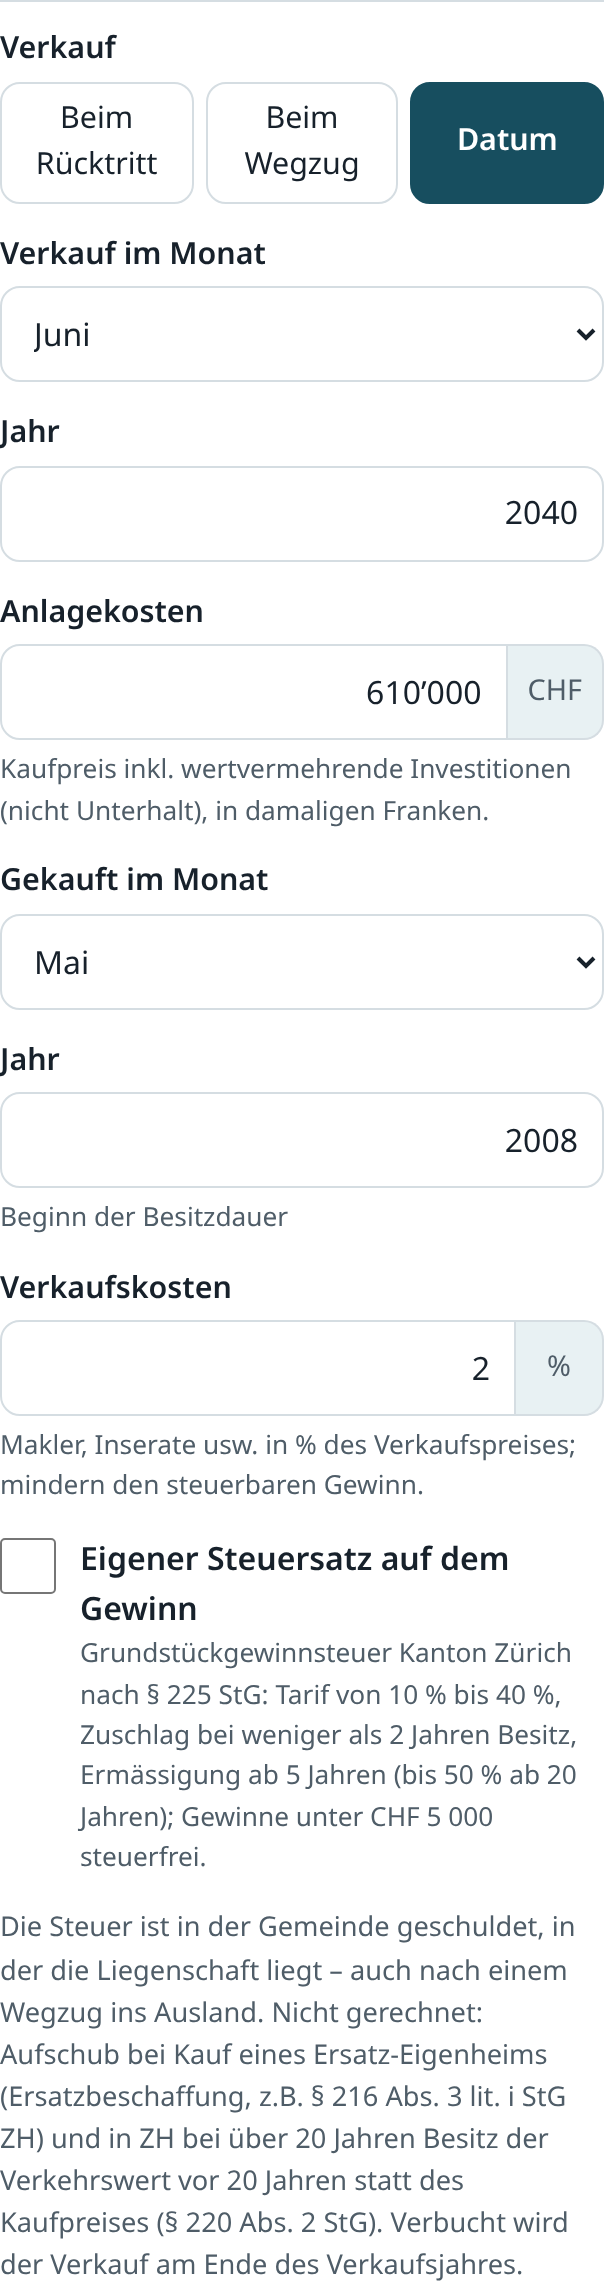
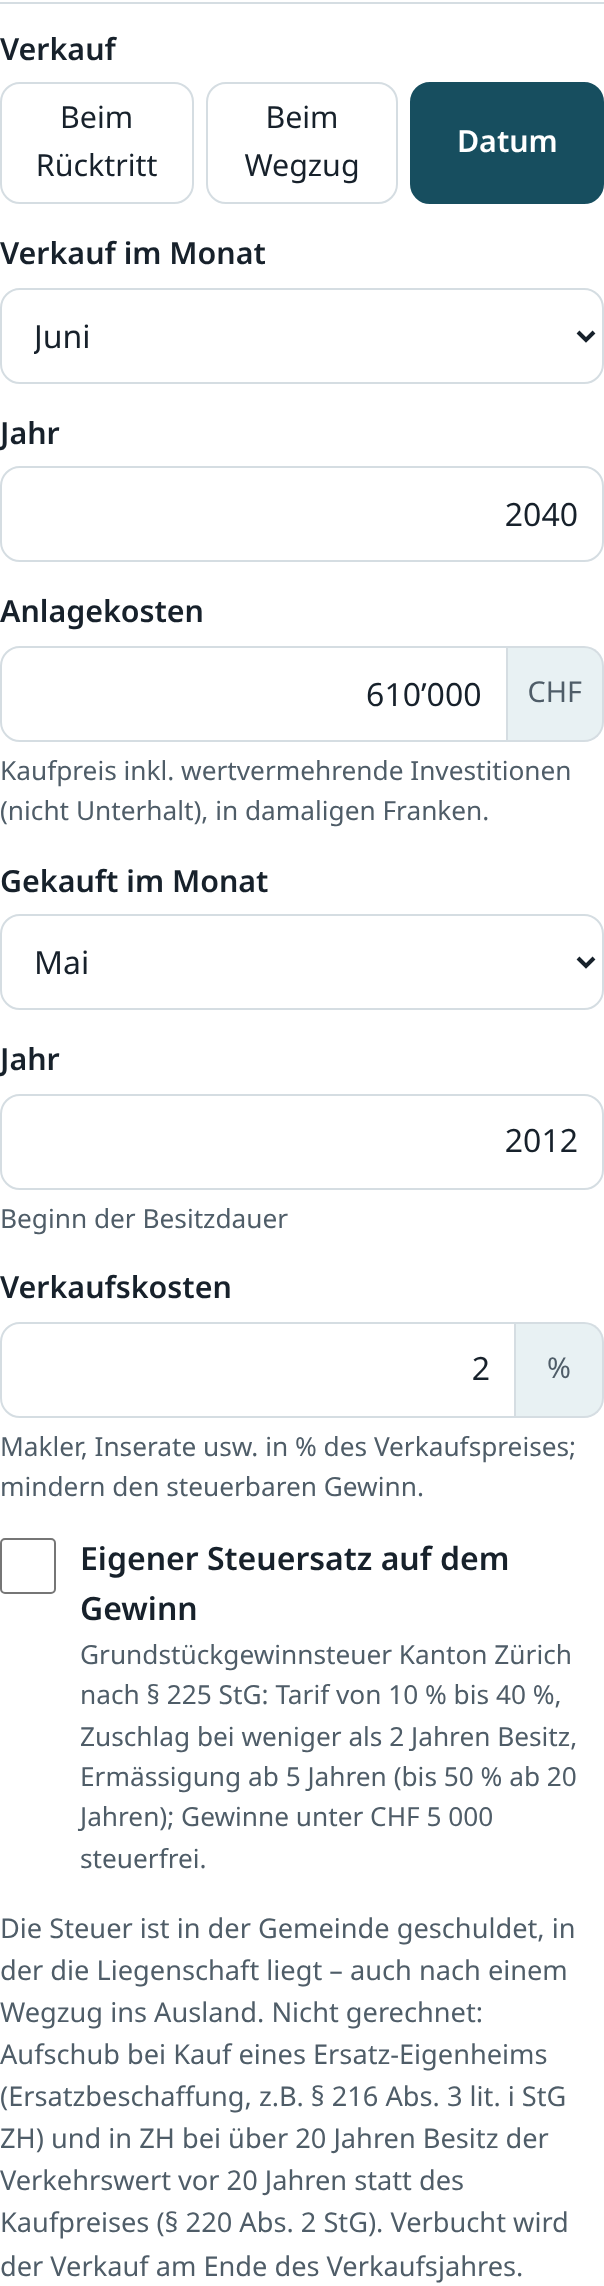
Rendite-Hinweis (Aktienanteil) mit Quellen, Screenshot 79 neutral (#9)
## Inhalt
- Standard bleibt 7 % / 2 %. Neuer ehrlicher Hinweis im Schnellmodus und
im Schritt «Annahmen»: 7 % passt zu 100 % Aktien (belegte Spanne), mit
Obligationenanteil sinkt die erwartete Rendite, Regler anpassen.
- Orientierungstabelle Aktienanteil → Richtwert (aus den gebündelten
JST-Daten gerechnet, `src/core/richtwerte.ts`, 4 Tests).
- `docs/quellen.md` §20: Quellen mit URL und Stand 2.10.2026; OFFEN:
Rendite Welt/USA in CHF, Erwartungswert.
- Screenshot 79: neutrales Beispielkaufjahr 2012 statt 2008; neue
Screenshots 132/133 (360 px, erfundene Werte).

## Prüfung
Tests 852 grün, tsc, Lint (nur bestehende Warnungen), Build, Guard (Repo
+ dist), Geheimnis-Scan, E-Mail-Guard, `npm audit` 0. SECURITY.md-Zeile
vom 2.10.2026.

---------

diff --git a/src/ui/components/AnnahmenHinweis.tsx b/src/ui/components/AnnahmenHinweis.tsx
@@ -3,13 +3,81 @@
  * bedeutet. Der Schnellmodus hat keine eigenen Annahmen: er teilt `haushalt.annahmen` mit «Detailliert».
  */
 
+import { RICHTWERT_BIS, RICHTWERT_VON, type Richtwert, richtwerte } from '../../core/richtwerte';
 import type { Annahmen } from '../../core/typen';
 import { ANNAHMEN_STANDARD } from '../../data/defaults';
+import { KRISEN_DATEN } from '../../data/krisen';
 import { fmtProzent } from '../format';
+import { ScrollTabelle } from './ScrollTabelle';
 
 /** Reale Nettorendite der Börsenanlagen nach Kosten und Teuerung (wie in der Rechnung). */
 export const realNetto = (a: Pick<Annahmen, 'renditeNominal' | 'kosten' | 'inflation'>): number =>
   (1 + a.renditeNominal - a.kosten) / (1 + a.inflation) - 1;
+
+const RICHTWERTE_CHE: readonly Richtwert[] = richtwerte(KRISEN_DATEN, 'CHE');
+const RICHTWERTE_USA: readonly Richtwert[] = richtwerte(KRISEN_DATEN, 'USA');
+const anteilText = (w: number) =>
+  w === 1 ? '100 % Aktien' : w === 0 ? '0 % Aktien (nur Obligationen)' : `${Math.round(w * 100)} % Aktien`;
+
+/**
+ * Einordnung der Standardrendite: belegte Spanne für Aktien und Hinweis, dass sie mit Obligationenanteil sinkt.
+ * Zahlen: JST R6 (aus den App-Daten gerechnet), UBS Global Investment Returns Yearbook 2025 (DMS), MSCI-Factsheet.
+ * Quellen und Stand: docs/quellen.md, Abschnitt 20.
+ */
+export function RenditeEinordnung({ ausfuehrlich = false }: { ausfuehrlich?: boolean }) {
+  const che = RICHTWERTE_CHE[0];
+  const usa = RICHTWERTE_USA[0];
+  return (
+    <>
+      <p className="klein">
+        7 % nominal passt zu einem Portfolio aus <strong>100 % Aktien</strong>: Schweizer Aktien erzielten 1900–2020
+        rund {fmtProzent(che?.nominal ?? Number.NaN)} pro Jahr in CHF, US-Aktien rund{' '}
+        {fmtProzent(usa?.nominal ?? Number.NaN)} in USD (Jordà-Schularick-Taylor, vor Kosten und Steuern). Die Spanne
+        ist gross: Seit 2000 erzielte der MSCI World netto 7.53 % pro Jahr in USD (29.12.2000 bis 31.8.2026, MSCI), die
+        globalen Aktien des UBS Global Investment Returns Yearbook 2025 real 3.5 % pro Jahr (2000–2024). Für US-Aktien
+        nennt das Yearbook im durchschnittlichen Jahr real 8.5 %; als Jahresrendite über die Jahre (geometrisch) sind es
+        laut JST real rund 6.7 %. Eine Garantie gibt es nicht.{' '}
+        <strong>Mit Obligationenanteil sinkt die erwartete Rendite</strong>; passen Sie den Wert bei weniger Aktien an
+        (Schritt «Annahmen»).
+      </p>
+      {ausfuehrlich ? (
+        <details className="aufklapp">
+          <summary>Orientierung: Aktienanteil und historische Rendite</summary>
+          <ScrollTabelle label="Aktienanteil und historische Rendite (Tabelle)">
+            <table className="fluss-tabelle">
+              <caption>
+                Historische nominale Jahresrendite {RICHTWERT_VON}–{RICHTWERT_BIS}, geometrisches Mittel, vor Kosten
+                (Rückschau, keine Prognose)
+              </caption>
+              <thead>
+                <tr>
+                  <th scope="col">Aktienanteil</th>
+                  <th scope="col">Schweiz (CHF)</th>
+                  <th scope="col">USA (USD)</th>
+                </tr>
+              </thead>
+              <tbody>
+                {RICHTWERTE_CHE.map((r, i) => (
+                  <tr key={r.aktienanteil}>
+                    <th scope="row">{anteilText(r.aktienanteil)}</th>
+                    <td>{fmtProzent(r.nominal)}</td>
+                    <td>{fmtProzent(RICHTWERTE_USA[i]?.nominal ?? Number.NaN)}</td>
+                  </tr>
+                ))}
+              </tbody>
+            </table>
+          </ScrollTabelle>
+          <p className="klein">
+            Obligationen: Staatsanleihen laut JST (Schweiz real rund 2 % pro Jahr, UBS-Yearbook: Eidgenossen real knapp
+            über 2 %). Die US-Zahlen sind in USD; in CHF umgerechnet (Wechselkurs) ist die Rendite eine andere, die Höhe
+            ist hier <strong>nicht belegt (OFFEN)</strong>. Nach Anlagekosten und Steuern bleibt weniger. Die Teuerung
+            betrug in der Schweiz seit 1900 im Mittel 2.1 % pro Jahr (UBS-Yearbook 2025).
+          </p>
+        </details>
+      ) : null}
+    </>
+  );
+}
 
 export function AnnahmenSchnellHinweis({ a }: { a: Annahmen }) {
   const istStandard =
@@ -40,6 +108,7 @@ export function AnnahmenSchnellHinweis({ a }: { a: Annahmen }) {
         Krisen, die normalen Jahre werden so erhöht, dass der Durchschnitt Ihrer Annahme entspricht). Prüfen Sie das
         Ergebnis auch mit einer tieferen Rendite (Regler «Was wäre, wenn» im Ergebnis).
       </p>
+      <RenditeEinordnung />
     </section>
   );
 }

diff --git a/src/core/richtwerte.ts b/src/core/richtwerte.ts
@@ -1,0 +1,45 @@
+/**
+ * Orientierung «Aktienanteil → historische Rendite» (Hilfetext zu den Annahmen).
+ *
+ * Gerechnet aus den Jahresreihen der Jordà-Schularick-Taylor Macrohistory Database R6 (Aktien- und Obligationen-
+ * Gesamtrenditen, nominal in Landeswährung, siehe data/krisen-historisch.json): geometrisches Mittel eines jährlich auf
+ * den Zielanteil zurückgestellten Portfolios (Anteil × Aktien + Rest × Obligationen), vor Kosten und Steuern.
+ * Das ist eine Rückschau und keine Prognose; die Zahlen werden nicht von Hand gepflegt, sondern aus den Daten berechnet.
+ */
+import type { HistJahr, KrisenDaten, KrisenLand } from './krisen';
+
+export const RICHTWERT_VON = 1900;
+export const RICHTWERT_BIS = 2020;
+export const RICHTWERT_ANTEILE = [1, 0.75, 0.5, 0.25, 0] as const;
+
+export interface Richtwert {
+  aktienanteil: number;
+  /** Geometrische nominale Jahresrendite (0.072 = 7.2 %) */
+  nominal: number;
+  /** Anzahl Jahre, die in die Rechnung eingingen */
+  jahre: number;
+}
+
+export function richtwerte(
+  daten: KrisenDaten,
+  land: KrisenLand,
+  anteile: readonly number[] = RICHTWERT_ANTEILE,
+): Richtwert[] {
+  const zeilen: HistJahr[] = [...daten[land].values()].filter(
+    (h) =>
+      h.jahr >= RICHTWERT_VON &&
+      h.jahr <= RICHTWERT_BIS &&
+      h.aktien !== null &&
+      h.obligationen !== null &&
+      h.teuerung !== null,
+  );
+  return anteile.map((w) => {
+    let summe = 0;
+    for (const h of zeilen) summe += Math.log(1 + w * (h.aktien as number) + (1 - w) * (h.obligationen as number));
+    return {
+      aktienanteil: w,
+      nominal: zeilen.length ? Math.exp(summe / zeilen.length) - 1 : Number.NaN,
+      jahre: zeilen.length,
+    };
+  });
+}

diff --git a/src/core/richtwerte.test.ts b/src/core/richtwerte.test.ts
@@ -1,0 +1,30 @@
+import { describe, expect, it } from 'vitest';
+import { KRISEN_DATEN } from '../data/krisen';
+import { richtwerte } from './richtwerte';
+
+const pct = (x: number) => Math.round(x * 1000) / 10;
+
+describe('Richtwerte Aktienanteil → historische nominale Rendite (JST R6, 1900–2020)', () => {
+  it('Schweiz: Werte stimmen mit der unabhängigen Python-Rechnung überein', () => {
+    const r = richtwerte(KRISEN_DATEN, 'CHE');
+    expect(r.map((x) => pct(x.nominal))).toEqual([7.2, 6.7, 6.1, 5.2, 4.1]);
+    expect(r[0]?.jahre).toBe(120);
+  });
+
+  it('USA: Werte stimmen mit der unabhängigen Python-Rechnung überein', () => {
+    const r = richtwerte(KRISEN_DATEN, 'USA');
+    expect(r.map((x) => pct(x.nominal))).toEqual([9.7, 8.8, 7.6, 6.3, 4.6]);
+  });
+
+  it('sinkt mit weniger Aktien (Schweiz und USA)', () => {
+    for (const land of ['CHE', 'USA'] as const) {
+      const r = richtwerte(KRISEN_DATEN, land).map((x) => x.nominal);
+      for (let i = 1; i < r.length; i++) expect(r[i] as number).toBeLessThan(r[i - 1] as number);
+    }
+  });
+
+  it('leere Daten: NaN statt Absturz', () => {
+    const leer = { CHE: new Map(), USA: new Map(), JPN: new Map() };
+    expect(richtwerte(leer, 'CHE')[0]?.nominal).toBeNaN();
+  });
+});

diff --git a/src/ui/schritte/Annahmen.tsx b/src/ui/schritte/Annahmen.tsx
@@ -1,5 +1,6 @@
 import { useId, useState } from 'react';
 import { ANNAHMEN_STANDARD } from '../../data/defaults';
+import { RenditeEinordnung } from '../components/AnnahmenHinweis';
 import { ZahlFeld } from '../components/Felder';
 import { Karte } from '../components/Karte';
 import { AktienanteilFeld } from '../components/Krisen';
@@ -62,6 +63,7 @@ export function Annahmen({ h, setH, regeln, onZuruecksetzen }: Props) {
           onChange={(v) => setA({ inflation: v })}
           hinweis={`Standard für neue Eingaben: ${fmtProzent(ANNAHMEN_STANDARD.inflation)}. Gilt im Modus «Schnell» und «Detailliert» gleich.`}
         />
+        <RenditeEinordnung ausfuehrlich />
         <AktienanteilFeld h={h} setH={setH} />
         <p className="info">
           {VEREINFACHUNG_BOERSE} {VEREINFACHUNG_WOHNEIGENTUM}

diff --git a/docs/quellen.md b/docs/quellen.md
@@ -425,6 +425,38 @@ Der Szenario-Vergleich enthält **keine neuen Regelwerte und keine neuen Quellen
 
 ## 20. Standard-Annahmen Rendite und Teuerung (7 % / 2 %) – `src/data/defaults.ts` (`ANNAHMEN_STANDARD`)
 
-Rendite Börse 7 % nominal und Teuerung 2 % sind **Modellannahmen des Eigentümers** (Auftrag vom 30.9.2026), **keine amtlichen oder belegten Zahlen**; es wird bewusst keine Quelle genannt. Die App sagt das im Schnellmodus und im Schritt «Annahmen» ausdrücklich (keine Garantie, Renditen schwanken, Krisenmodus bleibt aktiv). Die Standards gelten für «Schnell» und «Detailliert» gleich, weil beide `haushalt.annahmen` teilen; vorher 4 % / 1 %. Gespeicherte Eingaben (`localStorage`, Links) werden nicht überschrieben. Die reale Nettorendite nach Kosten wird in der App aus Rendite, Anlagekosten und Teuerung gerechnet (`realNetto`).
+Rendite Börse 7 % nominal und Teuerung 2 % sind **Modellannahmen des Eigentümers** (Auftrag vom 30.9.2026), **keine amtlichen oder belegten Zahlen**; als Annahme wird sie bewusst nicht mit einer Quelle begründet, die Einordnung steht unten. Die App sagt das im Schnellmodus und im Schritt «Annahmen» ausdrücklich (keine Garantie, Renditen schwanken, Krisenmodus bleibt aktiv). Die Standards gelten für «Schnell» und «Detailliert» gleich, weil beide `haushalt.annahmen` teilen; vorher 4 % / 1 %. Gespeicherte Eingaben (`localStorage`, Links) werden nicht überschrieben. Die reale Nettorendite nach Kosten wird in der App aus Rendite, Anlagekosten und Teuerung gerechnet (`realNetto`).
 
-**OFFEN:** keine Regelpunkte; die Höhe der Annahmen bleibt eine Entscheidung des Nutzers.
+### Einordnung der 7 % (Recherche, abgerufen am 2.10.2026)
+
+**Aussage in der App:** 7 % nominal ist für ein Portfolio mit (fast) **100 % Aktien** plausibel, weil es in der belegten Spanne historischer Aktienrenditen liegt. **Mit Obligationenanteil sinkt die erwartete Rendite**; dann ist der Regler «Rendite Börse (nominal)» anzupassen. Das ist eine Rückschau, keine Prognose; Anlagekosten und Steuern sind nicht abgezogen.
+
+| Grösse | Wert | Quelle |
+|---|---|---|
+| Schweizer Aktien 1900–2020, nominal in CHF | 7.2 % p. a. (real 4.9 %, Teuerung 2.1 %) | JST Macrohistory Database R6, https://www.macrohistory.net/database/ (CC BY-NC-SA 4.0), eigene Rechnung aus `data/krisen-historisch.json` |
+| US-Aktien 1900–2020, nominal in USD | 9.7 % p. a. (real 6.7 % geometrisch; 8.5 % arithmetisch) | JST R6, eigene Rechnung |
+| US-Aktien 1900–2024, nominal | 9.7 % p. a.; real im durchschnittlichen Jahr 8.5 %; US-Teuerung 2.9 % | UBS Global Investment Returns Yearbook 2025, Public Summary (Dimson/Marsh/Staunton, DMS-Datenbank), https://www.ubs.com/content/dam/assets/wm/static/cio/documents/giry-2025-summary-public.pdf |
+| US-Aktien 1900–2024, real, geometrisch (USD) | 6.6 % p. a.; Nicht-US-Aktien real 4.3 % | Sekundärquelle: Interview mit Elroy Dimson, T. Rowe Price 2025, https://www.troweprice.com/institutional/lu/en/insights/articles/2025/q3/125-years-of-returns-timeless-lessons-in-investing.html |
+| Schweizer Teuerung seit 1900 | 2.1 % p. a. | UBS-Yearbook 2025 und JST (2.14 %) |
+| Weltweite Aktien **nur 2000–2024**, real | 3.5 % p. a. (Risikoprämie ggü. Bills 4.3 %) | UBS-Yearbook 2025 (gilt **nicht** für 1900–2024) |
+| MSCI World netto, in USD, seit 29.12.2000 | 7.53 % p. a. (Stand 31.8.2026); 10 Jahre 13.01 % p. a. | MSCI Factsheet (USD, Net), https://www.msci.com/documents/10199/255599/msci-world-index-usd-net.pdf |
+| MSCI World brutto, in USD, seit 31.12.1987 | 9.08 % p. a. (Stand 31.8.2026) | MSCI Factsheet (Gross), https://www.msci.com/documents/10199/178e6643-6ae6-47b9-82be-e1fc565ededb |
+
+Die MSCI-Index-Zahlen stammen aus Rückrechnung vor dem Start (31.3.1986); die 10-Jahres-Zahl ist ein Ausnahmezeitraum und **kein** Erwartungswert. Achtung: das MSCI-Factsheet unter `…/c12db7f7-a56a-4546-aed0-d2ffd6c01414` ist die AUD-Variante (6.47 %) und wird nicht verwendet.
+
+**Orientierungstabelle Aktienanteil → Richtwert** (belegt, weil aus den JST-Reihen im Repo gerechnet, `src/core/richtwerte.ts`): jährlich auf den Zielanteil rebalanciertes Portfolio aus Aktien und Staatsanleihen des gleichen Landes, geometrisches Mittel 1900–2020, nominal in Landeswährung, vor Kosten und Steuern.
+
+| Aktienanteil | Schweiz (CHF) | USA (USD) |
+|---|---|---|
+| 100 % | 7.2 % | 9.7 % |
+| 75 % | 6.7 % | 8.8 % |
+| 50 % | 6.1 % | 7.6 % |
+| 25 % | 5.2 % | 6.3 % |
+| 0 % (nur Obligationen) | 4.1 % | 4.6 % |
+
+Die App berechnet die Tabelle aus denselben Daten (kein fest einprogrammierter Wert) und zeigt sie im Schritt «Annahmen»; der Schnellmodus nennt nur den Hinweis.
+
+**OFFEN:**
+- Langfristige **Rendite von Welt- oder US-Aktien in CHF** (Währungseffekt: der Franken hat sich gegenüber dem US-Dollar stark aufgewertet). Die vollständige Länder-/Währungstabelle des UBS-Yearbooks liegt hinter der Bezahlschranke und wurde nicht gelesen. Die App nennt die USD-Werte ausdrücklich als USD.
+- Ein amtlich oder wissenschaftlich belegter **Erwartungswert** für die Zukunft: Die 7 % bleiben eine Modellannahme des Eigentümers (Auftrag vom 30.9.2026); belegt ist nur, dass sie in der historischen Spanne für 100 % Aktien liegt.
+- Eine Tabelle mit Richtwerten für Welt-Aktien in CHF nach Aktienanteil.

diff --git a/docs/SECURITY.md b/docs/SECURITY.md
@@ -62,6 +62,7 @@ GitHub «Private vulnerability reporting» (Security → Report a vulnerability)
 | 2.10.2026 | PR Umbenennung | ok, `npm audit` 0, Tests 807 (+1 übersprungen), tsc/Lint/Build ok, Guard (Repo und `dist`) ok | keine Schwachstellen. Nur Text geändert: App-Name «Ruhestandsrechner Schweiz», Untertitel, Meta-Description, Name der Export-Datei (`ruhestandsrechner-versionen-a-b.json`). Keine neuen Eingänge, Abhängigkeiten, Workflows oder Rechte; CSP unverändert. | Prüfung: Diff enthält nur Zeichenketten und Dokumentation. Repo-Name, URLs und `package.json`-Name (Slug) unverändert. Quelle: eigene Prüfung, Stand 2.10.2026 |
 | 2.10.2026 | PR Zu-/Abflüsse | ok, `npm audit` 0 (mit und ohne `--omit=dev`), Tests 820 (+1 übersprungen), Guard und Geheimnis-Scan ok | keine Schwachstellen; neue Eingänge: keine (alle Anzeigen lesen bestehende, validierte Felder; Rendite-Regler bis 10 % ist nur die Oberfläche der «Was wäre, wenn»-Rechnung, `GRENZEN` in `validierung.ts` unverändert). Hinweis (F-01, Info): neuer Standard 7 % / 2 % gilt nur für neue Nutzer, gespeicherte Eingaben im `localStorage` bleiben unverändert (Test in `state.test.ts`) | Prüfung: Eingabevalidierung (keine neuen Felder), XSS (neue Grafik und Tabellen nur aus React-Text und SVG-Elementen, kein `innerHTML`; `src/sicherheit.test.ts` grün), Geheimnisse, Rechte (keine Änderung), Abhängigkeiten (keine neuen), Fehlermeldungen (unverändert), Angriffsflächen (keine neuen Ein-/Ausgänge). Quelle: eigene Prüfung, Stand 2.10.2026 |
 | 2.10.2026 | PR Robustheit (Zeitlimit, E-Mail-Guard, Tastaturzugang) | ok, `npm audit` 0, Tests siehe PR, Guard/Geheimnis-Scan/E-Mail-Guard ok | keine Schwachstellen. Behoben: DS-02 (Guard ohne Wortliste wirkungslos → listenunabhängiger E-Mail-Guard in CI, auch für Commit-Metadaten), BAR-01 (scrollbare Tabellen per Tastatur), BAR-02 (Kontrast Segment, Landmarks). Neue Fläche: `email-guard.mjs` (nur lesend). Hinweis: Dokumentierte Ausnahme `377ef67` (Altlast, nur Hash) | Prüfung: Eingabevalidierung (keine neuen Eingaben der App), XSS (kein `innerHTML`; `ScrollTabelle` nur Attribute), Geheimnisse, Rechte (`security.yml` weiterhin `contents: read`, `fetch-depth: 0` nur lesend), Abhängigkeiten (keine neuen), Fehlermeldungen (Guard nennt nie Adressen). Quelle: eigene Prüfung, axe-core (hell/dunkel, 360 px) ohne Verstösse, Stand 2.10.2026 |
+| 2.10.2026 | PR Rendite-Hinweis und Screenshot 79 | ok, `npm audit` 0, Tests 852 (+1 übersprungen), tsc/Lint/Build ok, Guard (Repo und `dist`), Geheimnis-Scan und E-Mail-Guard ok | keine Schwachstellen. Nur feste Texte und eine Tabelle aus den gebündelten JST-Daten (kein `innerHTML`, keine neuen Eingänge, keine neuen Abhängigkeiten). Quellen der Zahlen mit URL und Stand 2.10.2026: `docs/quellen.md` §20 (UBS Global Investment Returns Yearbook 2025, MSCI-Factsheet USD, JST R6). | – |
 
 ### Offene Punkte
 
